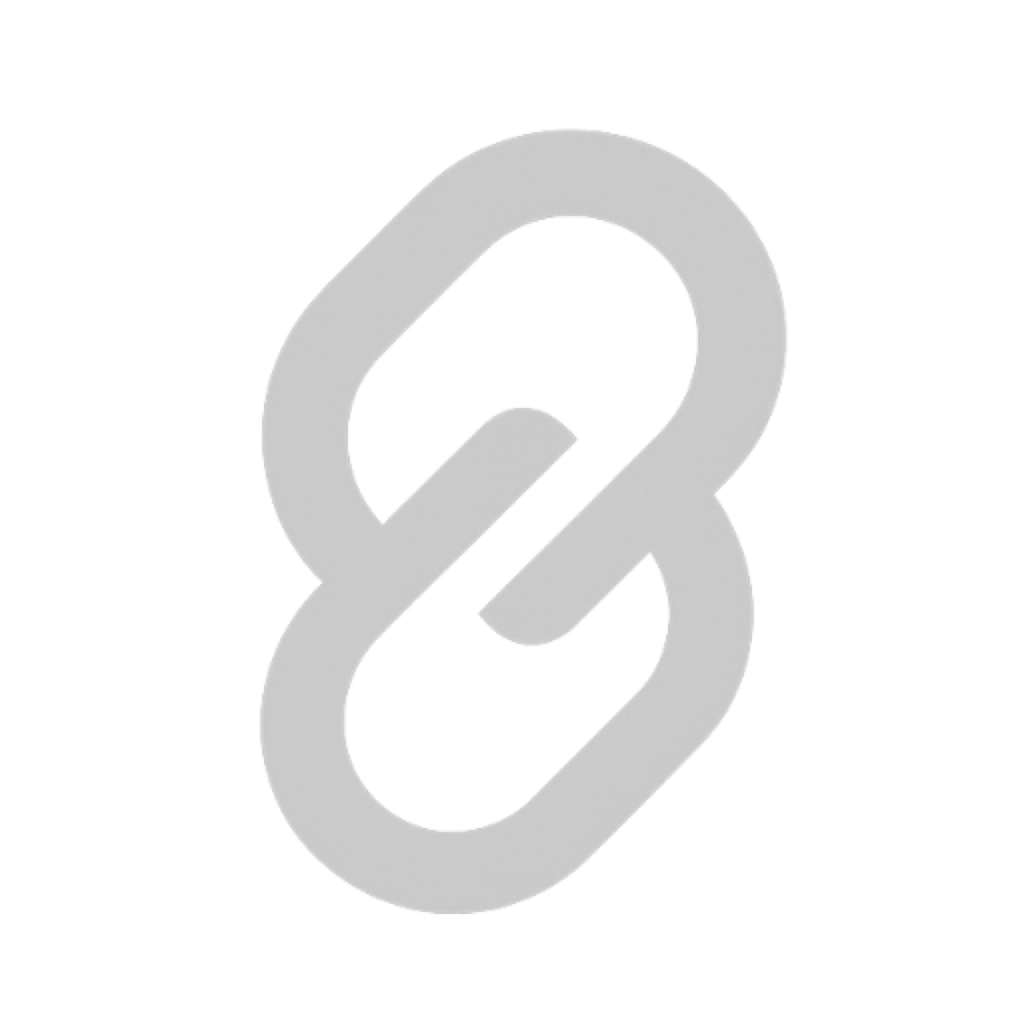
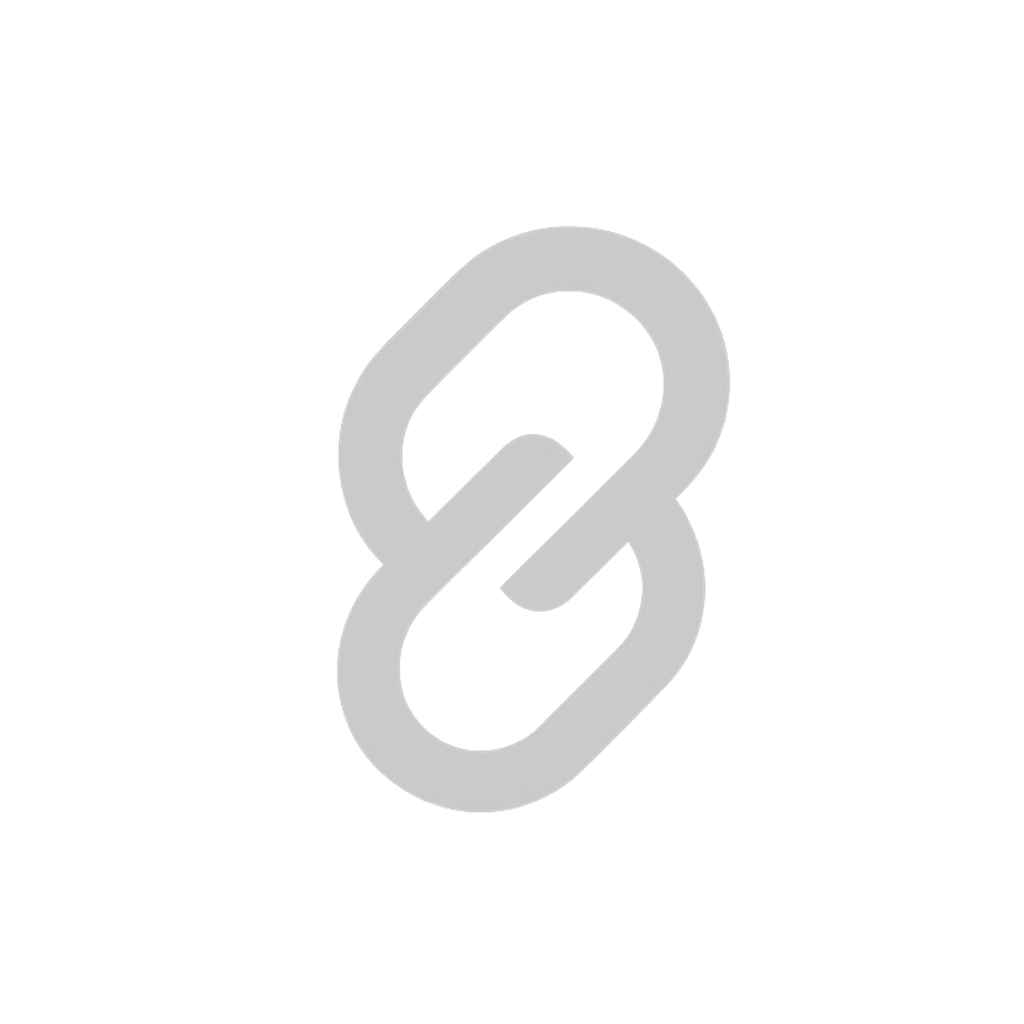
splash screen and image

diff --git a/src/navigation/AuthNavigator.jsx b/src/navigation/AuthNavigator.jsx
@@ -99,7 +99,7 @@ export function AuthNavigator() {
     : 'auth';
 
   if (boot) {
-    return <View accessibilityLabel="Loading" style={{ backgroundColor: colors.shell, flex: 1 }} />;
+    return <AppFontLoadingShell accessibilityLabel="Loading" animateEntrance testID="auth-boot" />;
   }
 
   return (